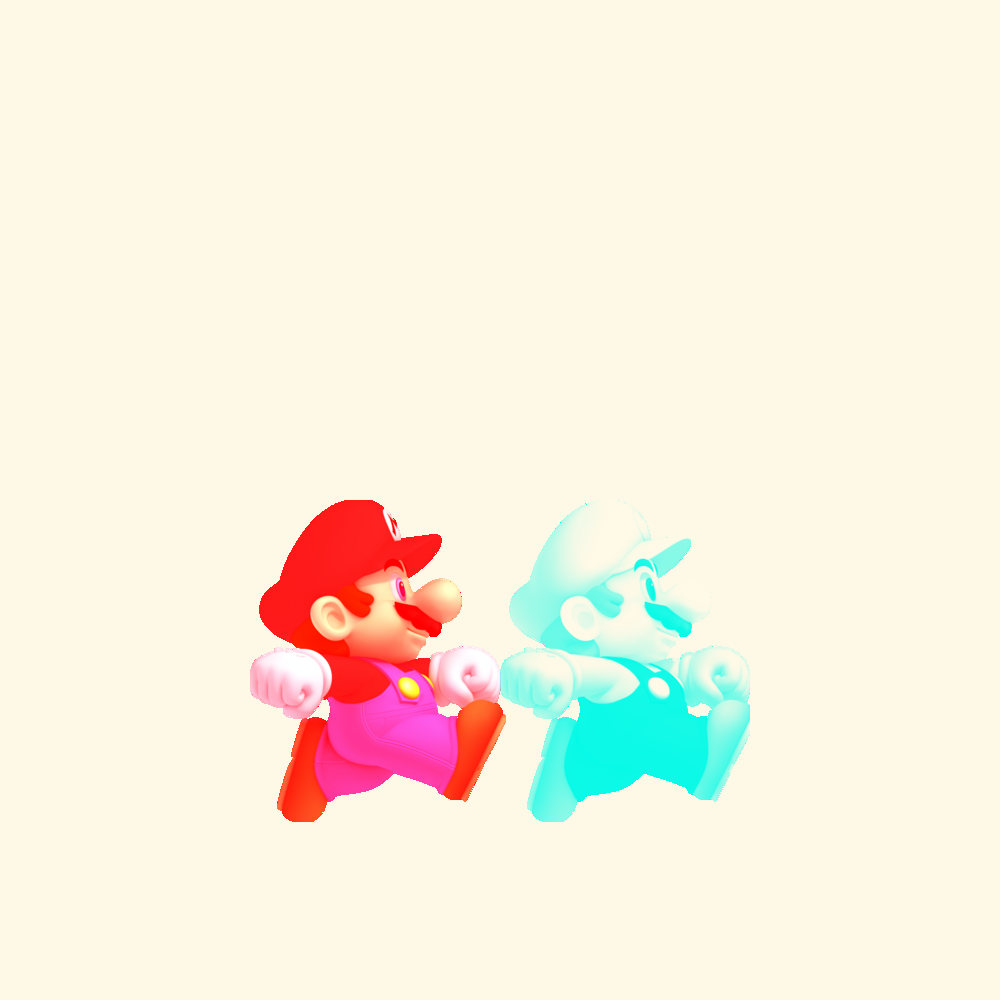
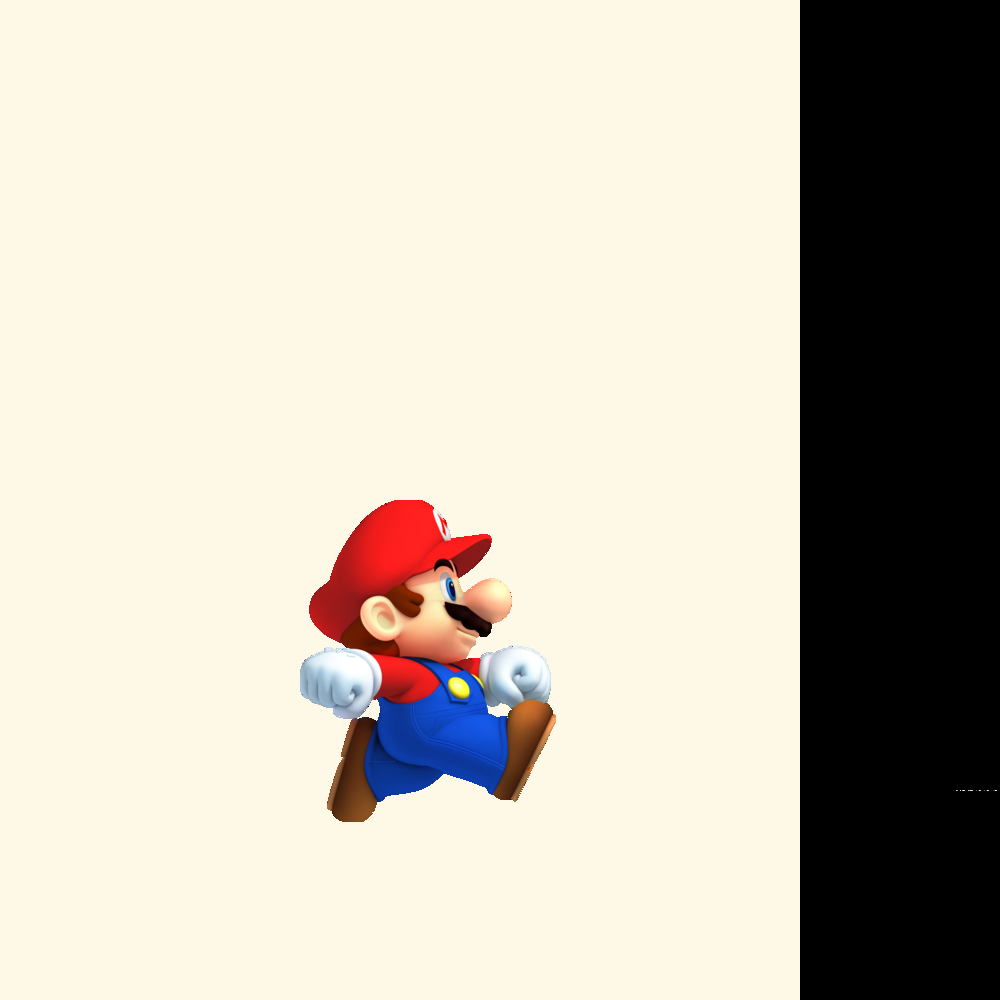
probando metodos

diff --git a/moving_image.h b/moving_image.h
@@ -87,9 +87,8 @@ public:
 
     // Mover la capa roja
     for (int i = 0; i < H_IMG; i++)
-      for (int j = 0; j < W_IMG - d; j++)
-        //tmp_layer[i][j] = red_layer[i][j + d];
-        tmp_layer[i][j] = red_layer[i][j];
+      for (int j = 0; j < d; j++)
+        tmp_layer[i][j] = red_layer[i][j + d];
 
     for (int i = 0; i < H_IMG; i++)
       for (int j = W_IMG - d, k = 0; j < W_IMG; j++, k++)
@@ -125,6 +124,56 @@ public:
       for (int j = 0; j < W_IMG; j++)
         blue_layer[i][j] = tmp_layer[i][j];
   }
+
+  // Mover a la derecha de manera circular
+  void move_right(int d)
+  {
+    unsigned char **tmp_layer = new unsigned char *[H_IMG];
+    for (int i = 0; i < H_IMG; i++)
+      tmp_layer[i] = new unsigned char[W_IMG];
+
+    // Mover la capa roja
+    for (int i = 0; i < H_IMG; i++)
+      for (int j = 0; j < d; j++)
+      tmp_layer[i][j+d] = red_layer[i][j];
+  
+    for (int i = 0; i < H_IMG; i++)
+      for (int j = 0, k = d; j < W_IMG-d; j++, k++)
+        tmp_layer[i][j] = red_layer[i][k];
+
+    for (int i = 0; i < H_IMG; i++)
+      for (int j = 0; j < W_IMG; j++)
+        red_layer[i][j] = tmp_layer[i][j];
+
+    // Mover la capa verde
+    for (int i = 0; i < H_IMG; i++)
+      for (int j = 0; j < d; j++)
+      tmp_layer[i][j+d] = green_layer[i][j];
+  
+    for (int i = 0; i < H_IMG; i++)
+      for (int j = 0, k = d; j < W_IMG-d; j++, k++)
+        tmp_layer[i][j] = green_layer[i][k];
+
+    for (int i = 0; i < H_IMG; i++)
+      for (int j = 0; j < W_IMG; j++)
+        green_layer[i][j] = tmp_layer[i][j];
+
+    // Mover la capa azul
+    for (int i = 0; i < H_IMG; i++)
+      for (int j = 0; j < d; j++)
+        tmp_layer[i][j+d] = blue_layer[i][j];
+  
+    for (int i = 0; i < H_IMG; i++)
+      for (int j = 0, k = d; j < W_IMG-d; j++, k++)
+        tmp_layer[i][j] = blue_layer[i][k];
+
+    for (int i = 0; i < H_IMG; i++)
+      for (int j = 0; j < W_IMG; j++)
+        blue_layer[i][j] = tmp_layer[i][j];
+  }
+
+
+
 
 private:
   // Función privada que guarda la imagen en formato .png

diff --git a/test.cpp b/test.cpp
@@ -12,8 +12,8 @@ int main() {
   moving_image im;
 
   im.draw("imagen.png");
-  im.move_left(250);
-  Sleep(2000);
+  im.move_right(200);
+  Sleep(1000);
   im.draw("imagen_desplazada_500.png");
 //  im.move_left(100);
 //  Sleep(2000);
